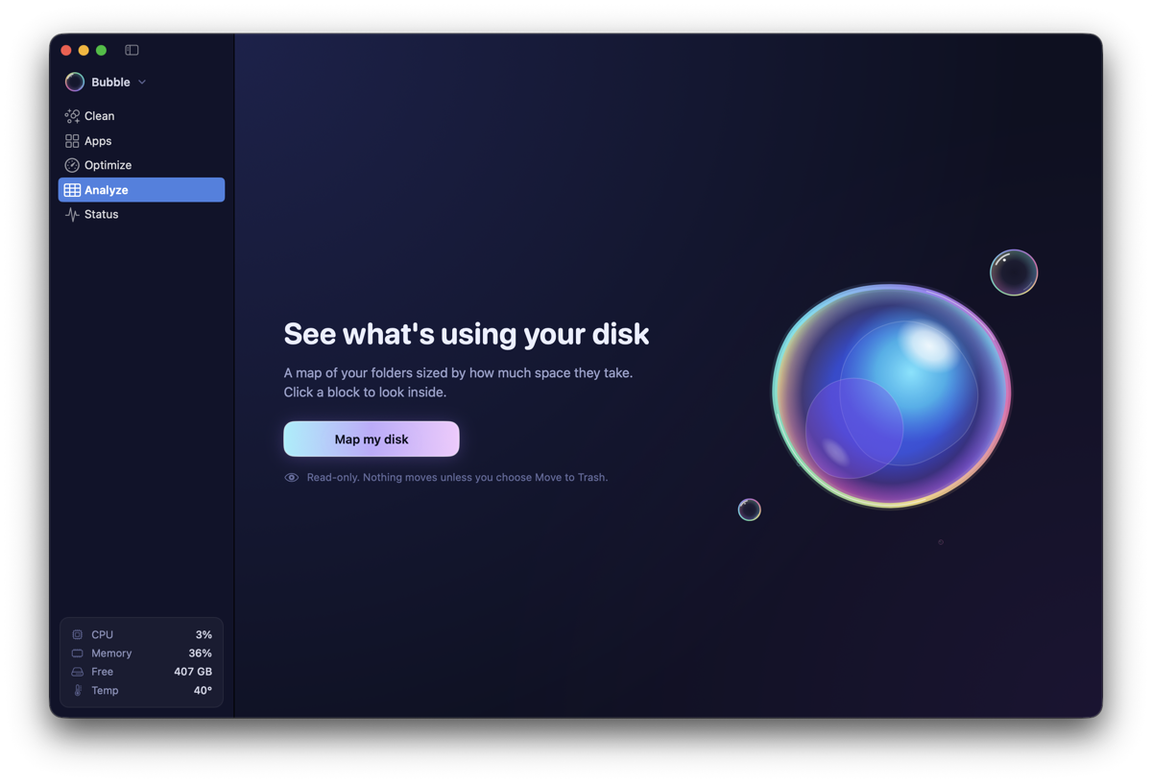
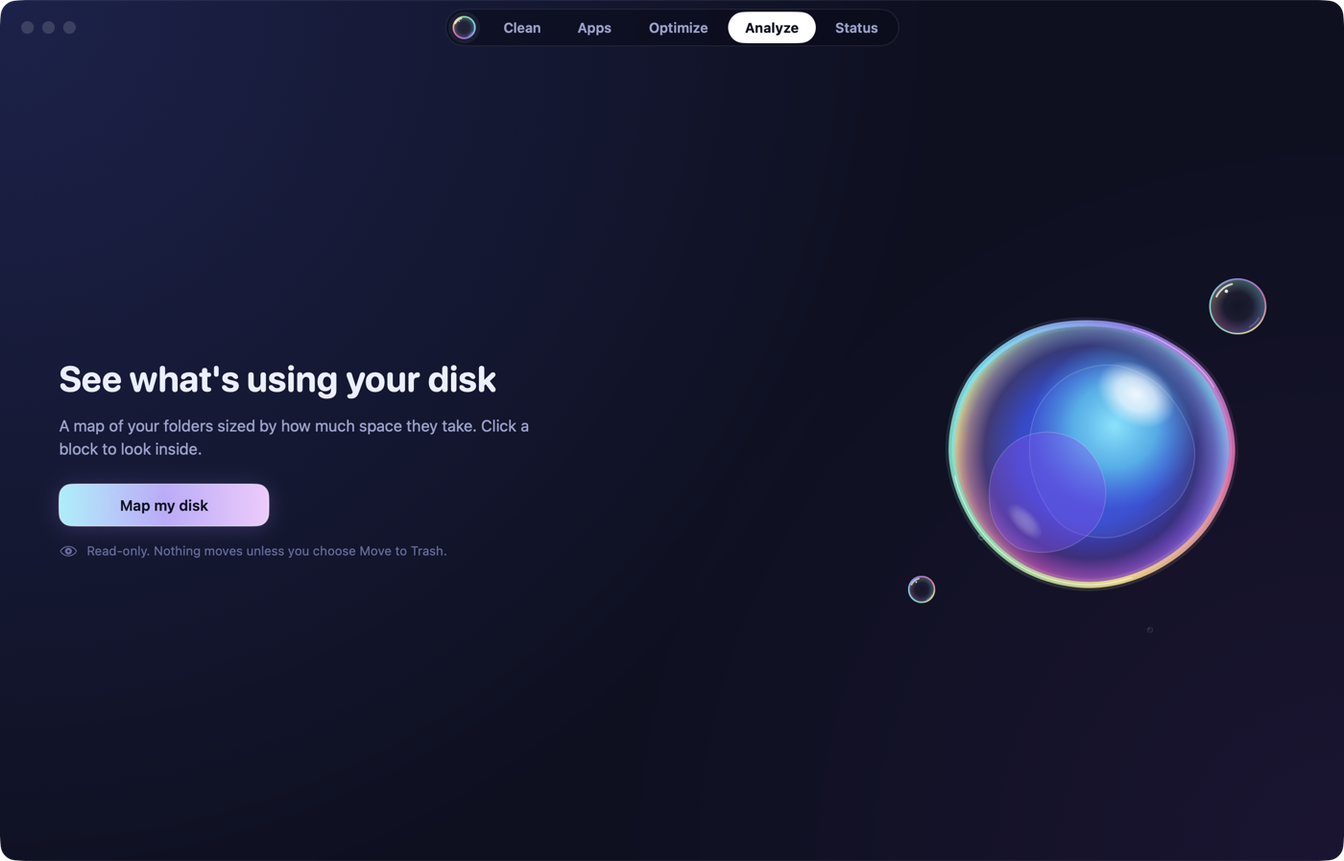
README: new screenshots, trimmed to what users need; dev and release notes move to docs/DEVELOPING.md

diff --git a/README.md b/README.md
@@ -11,260 +11,67 @@
 </p>
 
 <p align="center">
-  <img src="docs/optimize.png" width="49%" alt="Optimize">
+  <img src="docs/apps.png" width="49%" alt="Apps">
   <img src="docs/analyze.png" width="49%" alt="Analyze">
 </p>
 
 Bubble puts a friendly window on top of Mole's `mo` command-line tool: clean caches, uninstall apps
-with their leftovers, run maintenance, map your disk and watch your Mac's vitals. Every cleanup
-runs `mo`, so Mole's safety rules, protected items and history apply exactly as they do in
-Terminal. The one exception is uninstalling apps, which Bubble does natively (see below).
+with their leftovers, run maintenance, map your disk and watch your Mac's vitals. Cleanups run
+`mo`, so Mole's safety rules, protected items and history apply exactly as they do in Terminal.
 
 ## Install
 
 1. Download `Bubble-X.Y.Z.dmg` from the [latest release](https://github.com/jainnitin/bubble/releases/latest),
    open it and drag **Bubble** to Applications.
 2. Open it. If Mole isn't installed yet, Bubble installs it for you.
-3. Optionally give Bubble **Full Disk Access**. Bubble works without it: Clean and Analyze skip
-   the places macOS keeps private (and say so) instead of setting off permission dialogs.
+3. Optionally give Bubble **Full Disk Access**. Bubble works without it: it skips the places macOS
+   keeps private, and says so, instead of setting off permission dialogs.
 
-Bubble is signed and notarized by Apple and updates itself.
+Bubble is signed and notarized by Apple, and updates itself.
 
 ## Features
 
 | Section | What it does |
 |---|---|
-| **Clean** | Runs `mo clean --dry-run`, then reads `~/.config/mole/clean-list.txt` so you can review and untick items before `mo clean`. Unticked items are protected for that one run by temporarily adding them to `~/.config/mole/whitelist` (restored right after, or on the next launch if Bubble quit mid-clean). |
-| **Apps ▸ Uninstall** | Native, no `mo`. Lists apps in `/Applications` and `~/Applications` (Apple and protected apps are hidden). Leftovers in `~/Library` and `/Library` are matched by bundle id (also `<id>.*` for ids with three or more parts, team and group containers, and the app's extensions), plus the exact app name in Application Support, Caches and Logs. They're shown before removal and found again right before it. Open apps, and helpers running from inside them, are asked to quit and force-quit after three seconds if they're still open. Everything goes to the Trash, with Undo; Homebrew apps too, and their Caskroom record follows, so Homebrew stops tracking them. System files (for example in `/Library/LaunchDaemons`) are moved after one admin prompt: Touch ID when Touch ID for sudo is on, otherwise the macOS password dialog. Without Full Disk Access, other apps' containers are only checked by exact path, marked "Protected by macOS" and left alone. |
-| **Apps ▸ Updates** | Homebrew casks (`brew outdated --cask --greedy`), the App Store lookup API and Sparkle appcasts. Homebrew apps update in place; the rest open the App Store or the download page. |
-| **Apps ▸ Startup** | Launch agents and daemons from `~/Library/LaunchAgents`, `/Library/LaunchAgents` and `/Library/LaunchDaemons`. Your agents can be switched on and off with `launchctl`; daemons are view-only. |
-| **Optimize** | `mo optimize`, with live progress per task. Mole runs without admin rights; Bubble then flushes the DNS cache (and rebuilds Spotlight when Mole finds it slow) itself, behind one Touch ID or macOS authorization prompt. Untick "Include admin tasks" to skip that step; then nothing asks for anything. Without Full Disk Access, the tasks that read other apps' data (Mail, Messages and Safari databases, notifications, usage data, shared file lists) are skipped for the run, so macOS doesn't pop up privacy prompts. |
-| **Analyze** | `mo analyze --json PATH`, drawn as a treemap you can drill into. Right-click to reveal, copy the path or move to the Trash. |
-| **Status** | `mo status --watch` (one JSON line per second) plus native readings: CPU and GPU temperatures and fan speed from the SMC, GPU use from IOKit, and the full process list with Quit and Force Quit. A compact version lives in the menu bar. |
+| **Clean** | Scans with `mo clean --dry-run`, lets you review and untick items, then cleans. |
+| **Apps** | **Uninstall** apps with their leftovers, natively: everything goes to the Trash, with Undo. **Updates** for Homebrew, App Store and Sparkle apps. **Startup** items you can switch off. |
+| **Optimize** | `mo optimize` with live progress. Admin tasks (DNS flush, Spotlight) take one Touch ID prompt, or can be skipped. |
+| **Analyze** | A treemap of your disk you can drill into, reveal or move to the Trash. |
+| **Status** | Live CPU, memory, disk, network, temperatures and processes, also in the menu bar. |
 
-Also:
-
-- **First-run setup** installs or updates Mole for you (see Requirements) and offers Full Disk Access as an option.
-- **Checkup** (the Bubble logo at the left of the tab bar) checks Mole, permissions, Touch ID for sudo,
-  free disk space and Mole's health score, with a fix for each problem.
-- **Settings**: Full Disk Access status, open at login, menu-bar-only mode, open straight to
-  results, the Protected Items editor for Mole's whitelist, the menu bar display, and Mole's
-  version and updates.
-- **Keep Screen On** and **Clean Screen** (a black screen to wipe it), from the Bubble menu.
-
-Optimize runs `mo optimize` inside a pseudo-terminal so Mole's prompts can be answered. It never
-asks for a password: Mole gets no `sudo`, and Bubble runs the admin tasks itself afterwards,
-through `sudo` with Touch ID when you're an administrator and Touch ID for sudo is on (Checkup can
-turn it on), otherwise through the macOS authorization dialog, which asks for an administrator's
-name and password. Every other prompt Mole shows is declined with a safe answer and listed as
-"Skipped".
+Also: **Checkup** (click the Bubble logo) checks Mole, permissions and Touch ID for sudo, with a fix
+for each problem; **Settings** edits Mole's protected items; **Keep Screen On** and **Clean Screen**
+are in the Bubble menu.
 
 ## Requirements
 
 - macOS 14 or later.
-- Mole 1.59.0 or later. You don't need to install it first: on first launch Bubble installs it with
-  Homebrew (`brew install mole`) when Homebrew is there, otherwise with Mole's official install
-  script, pinned to a release and checked against a SHA-256 built into Bubble. It installs into
-  `~/.local/bin` and never asks for an administrator password. An older Mole is offered an update.
-- To build: Xcode. The Command Line Tools alone can't expand SwiftUI's `@State` and `@Observable`
-  macros.
-
-## Building and developing
-
-```sh
-scripts/bundle.sh            # release build: build/Bubble.app, Developer ID (else ad-hoc), hardened runtime
-scripts/bundle.sh --install  # also copies it to /Applications
-DEVELOPER_DIR=/Applications/Xcode.app/Contents/Developer swift build   # debug build
-DEVELOPER_DIR=/Applications/Xcode.app/Contents/Developer swift test    # unit tests
-```
-
-Without **Full Disk Access** (System Settings ▸ Privacy & Security), Clean and Analyze run Mole
-under a sandbox profile that skips macOS-protected folders; see Privacy below. Launch a dev build
-with `-simulateNoFullDiskAccess YES` to see that mode on a Mac that has access.
-
-Some tests run real processes in a pseudo-terminal (bash scripts standing in for Mole and sudo).
-The test that needs an installed Mole skips itself without one; `BUBBLE_LIVE_MOLE=1 swift test
---filter LiveOptimizeWhitelistTests` runs a real `mo optimize --dry-run` with the temporary whitelist.
-
-**Dev builds.** `BUBBLE_DEV=1 scripts/bundle.sh` compiles in debug hooks that release builds don't
-contain (`release.sh` refuses to ship them). Pass them as launch arguments, for example
-`open build/Bubble.app --args -simulateNoMole YES`:
-
-| Argument | Effect |
-|---|---|
-| `-simulateNoMole YES` | Mole reported missing (welcome screen) |
-| `-simulateNoBrew YES` | Homebrew reported missing (install-script route) |
-| `-simulateMoleVersion 1.40.0` | Report this Mole version (update screen) |
-| `-simulateInstallFailure YES` | The simulated install fails (error screen) |
-| `-simulateNoFullDiskAccess YES` | Full Disk Access reported off everywhere (setup step, Settings, Checkup, and Clean/Analyze run guarded) |
-| `-lastTab Status`, `-appsSub Updates` | Open on a section |
-| `-autoStart YES` | Clean and Analyze start their read-only scan on launch |
-
-While any `-simulate…` argument is set, installing or updating Mole is a dry run with canned
-output. `scripts/shot.sh <Tab> out.png` relaunches a dev build on a section and screenshots its
-window (check the image before sharing it: Status shows your IP address, processes and devices).
-
-The app icon is drawn in code; see [scripts/icon/README.md](scripts/icon/README.md).
+- Mole 1.59.0 or later. Bubble installs or updates it for you, with Homebrew when it's there,
+  otherwise with Mole's official install script (pinned and checksum-verified). No admin password
+  needed.
 
 ## Privacy
 
-Bubble has no analytics, telemetry or crash reporting, and no account.
-
-**Network.** Bubble itself only goes online for these:
-- **Its own updates.** Sparkle fetches `appcast.xml` from GitHub Releases once a day (turn
-  this off under **Settings ▸ Mole ▸ Automatically check for updates**), or when you choose
-  **Check for Updates…**. It sends no information about your Mac.
-- **Apps ▸ Updates**, only when you open it: the App Store lookup API (`itunes.apple.com`, with
-  your App Store apps' bundle IDs), each Sparkle-based app's own update feed, and
-  `brew outdated` for Homebrew casks. These requests send no cookies and a generic User-Agent.
-- **Explicit actions**: installing or updating Mole (Homebrew, or Mole's install script from
-  GitHub), updating a Homebrew app, and the "is Mole up to date" check in Checkup and Settings,
-  which asks Homebrew.
-
-**Your admin password** never passes through Bubble. Admin tasks (Optimize's DNS flush, removing
-system files during Uninstall) are approved with Touch ID through `sudo` when Touch ID for sudo is
-on and you're an administrator. Otherwise, or if Touch ID is cancelled, macOS's own authorization
-dialog asks for an administrator's name and password; Bubble never sees what's typed there.
-
-**Permissions**
-- *Full Disk Access* (optional) lets Mole see the Trash, Mail, Desktop, Documents, Downloads and
-  other apps' caches. macOS extends it to the tools Bubble runs: `mo`, `brew`, and developer tools
-  such as `npm`, `pip` and `go` that Clean asks to clear their caches.
-
-  **Without it**, every `mo` that Clean and Analyze start runs under `sandbox-exec` with a profile
-  that refuses the places macOS would otherwise ask about, one dialog each, on Bubble's behalf:
-  Desktop, Documents, Downloads, the Trash, Mail, Messages, Safari, iCloud Drive and
-  `~/Library/CloudStorage`, the Music folder, Photos libraries, removable volumes (`/Volumes`), and
-  the contents of other apps' `Containers`, `Group Containers`, `Application Scripts` and
-  `Daemon Containers`. A refusal from the profile comes before macOS's privacy check, so no
-  dialog appears; Mole sees "Operation not permitted" and moves on. Clean's review and Analyze's
-  sidebar list what was skipped. Desktop, Documents and Downloads can each be turned on in
-  **Settings ▸ General** (or with "Scan…" in Analyze): macOS then asks once and remembers the
-  answer. Granting Full Disk Access later takes effect when you switch back to Bubble.
-- *Administrator approval* (Touch ID through `sudo`, or an administrator's password in the macOS
-  dialog) for the tasks above.
-- *Automation*: some of Mole's steps use `osascript` (moving files to the Trash through Finder), so macOS may ask whether Bubble can control Finder or
-  System Events. Clean refuses Mole's System Events "which apps are running" query (Mole falls
-  back to `lsappinfo`), so cleaning never asks.
-- *Open at login*, only if you turn it on in Settings.
-
-**On disk**, Bubble writes only:
-- its preferences (the `~/Library/Preferences/` plist for Bubble's bundle ID);
-- `~/.config/mole/whitelist`, when you edit Protected Items, and temporarily during a selective
-  clean (with a backup beside it, restored right after, or on the next launch if Bubble quit
-  mid-clean);
-- Mole's own files, as `mo` writes them: `~/.config/mole/clean-list.txt` from each scan, and
-  Mole's history and logs.
-
-## Updates
-
-Bubble updates itself with [Sparkle 2](https://sparkle-project.org). It checks once a day (or
-**Bubble ▸ Check for Updates…**), reads `appcast.xml` from the newest GitHub Release, and installs
-an update only if the zip's EdDSA signature matches the public key built into the app. The appcast
-is signed too (`SURequireSignedFeed`). Releases are signed with Developer ID and notarized by
-Apple, so they open without a Gatekeeper warning and keep their Full Disk Access grant across
-updates.
-
-## Releasing
-
-Settings live in `updates.conf` (repo, feed URL, public key, Keychain account) and `VERSION`.
-`CFBundleVersion` is derived from the version (`1.2.3` → `1002003`), so every new version is newer
-to Sparkle.
-
-One-time setup:
-
-1. Set `GITHUB_REPO` in `updates.conf` to the real `owner/repo`. The feed URL is derived from it:
-   `https://github.com/<owner>/<repo>/releases/latest/download/appcast.xml`.
-2. The EdDSA private key is in the login Keychain as "Private key for signing Sparkle updates",
-   account `bubble`. Its public half is `SU_PUBLIC_ED_KEY` in `updates.conf`. Export the private key
-   into the release secret, then delete the exported file:
-   ```sh
-   swift package resolve   # fetches Sparkle's tools into .build/artifacts
-   .build/artifacts/sparkle/Sparkle/bin/generate_keys --account bubble -x ~/bubble_ed25519
-   gh secret set SPARKLE_ED_PRIVATE_KEY --env release < ~/bubble_ed25519 && rm -P ~/bubble_ed25519
-   ```
-3. The secret lives in a GitHub environment named `release` (Settings ▸ Environments), not in the
-   repo-wide secrets. Give that environment a deployment rule limited to tags matching `v*.*.*`
-   (and ideally a required reviewer), so no other branch or workflow can read the key.
-4. Keep a backup of the private key (for example in a password manager). Without it, existing
-   installs can't be updated.
-5. Add the Apple secrets to the same `release` environment (the same values as `~/code/keel`):
-   `MACOS_CERT_P12_BASE64` and `MACOS_CERT_PASSWORD` (the Developer ID Application certificate),
-   and `APPLE_API_KEY_P8_BASE64`, `APPLE_API_KEY_ID`, `APPLE_API_ISSUER_ID` (an App Store Connect
-   API key, used to notarize).
-6. For local releases, save the notary credentials once:
-   `xcrun notarytool store-credentials bubble --key <AuthKey.p8> --key-id <ID> --issuer <issuer>`.
-
-To cut a release, bump `VERSION`, commit, then `git tag v$(cat VERSION) && git push --tags`.
-`.github/workflows/release.yml` runs `scripts/release.sh` in the `release` environment: it builds
-the app, signs it with Developer ID, notarizes and staples it, zips it with `ditto`, signs the zip, writes a signed `appcast.xml` with Sparkle's
-`generate_appcast`, and checks the signature against `SU_PUBLIC_ED_KEY`. It then packs the same app
-into `Bubble-X.Y.Z.dmg` for downloads (`scripts/dmg.sh`), and signs, notarizes and staples the DMG
-too. A separate job without the key then attaches the DMG, the zip and `appcast.xml` to the GitHub
-Release. Sparkle only uses the zip and the appcast; the DMG is what people download to install. If `release-notes/X.Y.Z.md` exists, it
-appears in the update dialog. To build a release locally with the Keychain key, run
-`scripts/release.sh` (the output goes to `dist/`); `SKIP_NOTARIZE=1` skips notarization for a
-test build.
-
-The DMG window (Bubble.app, an Applications shortcut and an arrow between them) is laid out by
-[dmgbuild](https://github.com/dmgbuild/dmgbuild), which writes Finder's `.DS_Store` directly, so it
-works on a headless CI runner without scripting Finder. `scripts/dmg.sh` installs it into
-`build/dmgbuild-venv` from `scripts/dmg/requirements.txt` (pinned by hash); its settings are in
-`scripts/dmg/settings.py`. To try the DMG without releasing:
-`scripts/bundle.sh && scripts/dmg.sh build/Bubble.app build/Bubble.dmg`. The background
-(`assets/dmg-background.png` and `@2x`) is drawn by `swift scripts/dmg/render-background.swift`.
-
-Builds use the hardened runtime with the `com.apple.security.automation.apple-events` entitlement
-(Mole runs `osascript`, and macOS checks Bubble for it). `scripts/bundle.sh` signs with the first
-Developer ID Application identity in your keychains (override with `SIGN_IDENTITY`, or `-` for
-ad-hoc). Ad-hoc builds also set `cs.disable-library-validation`, because without a Team ID the
-hardened runtime won't load Sparkle.framework; Developer ID builds keep library validation on.
-
-CI (`.github/workflows/ci.yml`) builds with and without the debug hooks and runs the tests on
-every push and pull request.
-
-## Architecture
-
-A Swift package with one executable target; `scripts/bundle.sh` wraps it into an app bundle with
-Sparkle.framework. Each section is a SwiftUI view over an `@Observable` model, and every screen
-stays alive while hidden so scans and running jobs survive switching sections.
-
-```
-Sources/Bubble/
-  App.swift              app, window, tab bar, menu bar item, commands
-  Core/
-    Shell.swift          runs child processes: fixed mo/brew paths, scrubbed environment,
-                         system-first PATH, executable trust check, line streaming
-    PTY.swift            pseudo-terminal sessions and the prompt responder (declines prompts,
-                         ends sudo's without typing a password)
-    Admin.swift          root scripts behind Touch ID (sudo) or the macOS authorization dialog
-    Safety.swift         pure guards: Move to Trash, app names, command arguments, links
-    Theme.swift          palette, type scale, spacing, motion and shared modifiers
-    Components.swift     shared views: cards, buttons, hero layout, log box, section header
-    Bubble.swift         the bubble artwork (SwiftUI, and Core Animation for the hero)
-    Doctor.swift         Checkup
-    Updater.swift        Sparkle
-    Utilities.swift      Keep Screen On, Clean Screen, System Settings, Finder, clipboard
-    Format.swift         sizes, rates, dates and paths
-  Onboarding/            Mole detection, install and update, and the setup screens
-  Clean/                 scan parsing, selection rules, the temporary whitelist
-  Apps/                  Uninstall (native: AppLeftovers finds leftovers, AppRemover removes),
-                         Updates (appcasts, version comparison), Startup
-  Optimize/              mo optimize, and the admin tasks Bubble runs itself
-  Analyze/               navigation model, view and squarified treemap
-  Status/                mo status model, native sensors (SMC, GPU, processes), cards, menu bar panel
-  Settings/              the window and its panes, including the Protected Items editor
-Tests/BubbleTests/       unit tests, plus pseudo-terminal tests with scripted prompts
-scripts/                 bundle.sh, release.sh, dmg.sh, verify-update.swift, shot.sh, icon/, dmg/
-```
+- No analytics, telemetry, crash reporting or account.
+- Bubble goes online only to check for its own updates (once a day, can be turned off), when you
+  open **Apps ▸ Updates**, and when you install or update Mole or an app.
+- Your admin password never passes through Bubble: admin tasks use Touch ID through `sudo`, or
+  macOS's own authorization dialog.
+- Without Full Disk Access, Clean and Analyze run Mole in a sandbox that skips Desktop, Documents,
+  Downloads, Mail, Messages, Photos, iCloud and other apps' containers, so no privacy prompts
+  appear. Each screen lists what it skipped.
+- On disk, Bubble writes only its preferences and, when you protect items, Mole's
+  `~/.config/mole/whitelist` (unticked items are protected there for one run, then restored).
 
 ## Known limits
 
 - System-level caches in **Clean** need admin rights, and Mole only uses an already-open sudo
   session for those. Run `sudo -v && mo clean` in Terminal for them.
-- Mole's clean rescans when it runs, so anything new since your preview is cleaned too, the same
-  as `mo clean`.
-- No AI-tool cleanup, fan control or privacy indicators; the CLI doesn't expose them.
+- Mole rescans when it cleans, so anything new since your preview is cleaned too, as with `mo clean`.
+
+## Developing
+
+See [docs/DEVELOPING.md](docs/DEVELOPING.md) for building, dev builds and releasing.
 
 ## Credits and license
 
@@ -273,7 +80,5 @@ Bubble is released under the [MIT License](LICENSE).
 - [Mole](https://github.com/tw93/Mole) by tw93 is licensed under GPL-3.0. Bubble runs the `mo`
   you have installed as a separate program and doesn't bundle or link any of its code.
 - [Sparkle](https://sparkle-project.org) (MIT) is embedded for self-updates.
-- The app icon and bubble artwork are drawn in code (`scripts/icon/`, `Sources/Bubble/Core/Bubble.swift`);
-  there is no third-party art.
 
 Bubble is a separate project from Mole for Mac, the native app by Mole's author.

diff --git a/docs/DEVELOPING.md b/docs/DEVELOPING.md
@@ -1,0 +1,97 @@
+# Developing Bubble
+
+Needs Xcode: the Command Line Tools alone can't expand SwiftUI's macros.
+
+```sh
+scripts/bundle.sh            # release build: build/Bubble.app, Developer ID (else ad-hoc), hardened runtime
+scripts/bundle.sh --install  # also copies it to /Applications
+DEVELOPER_DIR=/Applications/Xcode.app/Contents/Developer swift build   # debug build
+DEVELOPER_DIR=/Applications/Xcode.app/Contents/Developer swift test    # unit tests
+```
+
+
+under a sandbox profile that skips macOS-protected folders; see Privacy below. Launch a dev build
+with `-simulateNoFullDiskAccess YES` to see that mode on a Mac that has access.
+
+Some tests run real processes in a pseudo-terminal (bash scripts standing in for Mole and sudo).
+The test that needs an installed Mole skips itself without one; `BUBBLE_LIVE_MOLE=1 swift test
+--filter LiveOptimizeWhitelistTests` runs a real `mo optimize --dry-run` with the temporary whitelist.
+
+**Dev builds.** `BUBBLE_DEV=1 scripts/bundle.sh` compiles in debug hooks that release builds don't
+contain (`release.sh` refuses to ship them). Pass them as launch arguments, for example
+`open build/Bubble.app --args -simulateNoMole YES`:
+
+| Argument | Effect |
+|---|---|
+| `-simulateNoMole YES` | Mole reported missing (welcome screen) |
+| `-simulateNoBrew YES` | Homebrew reported missing (install-script route) |
+| `-simulateMoleVersion 1.40.0` | Report this Mole version (update screen) |
+| `-simulateInstallFailure YES` | The simulated install fails (error screen) |
+| `-simulateNoFullDiskAccess YES` | Full Disk Access reported off everywhere (setup step, Settings, Checkup, and Clean/Analyze run guarded) |
+| `-lastTab Status`, `-appsSub Updates` | Open on a section |
+| `-autoStart YES` | Clean and Analyze start their read-only scan on launch |
+
+While any `-simulate…` argument is set, installing or updating Mole is a dry run with canned
+output. `scripts/shot.sh <Tab> out.png` relaunches a dev build on a section and screenshots its
+window (check the image before sharing it: Status shows your IP address, processes and devices).
+
+The app icon is drawn in code; see [scripts/icon/README.md](../scripts/icon/README.md).
+
+## Releasing
+
+Settings live in `updates.conf` (repo, feed URL, public key, Keychain account) and `VERSION`.
+`CFBundleVersion` is derived from the version (`1.2.3` → `1002003`), so every new version is newer
+to Sparkle.
+
+One-time setup:
+
+1. Set `GITHUB_REPO` in `updates.conf` to the real `owner/repo`. The feed URL is derived from it:
+   `https://github.com/<owner>/<repo>/releases/latest/download/appcast.xml`.
+2. The EdDSA private key is in the login Keychain as "Private key for signing Sparkle updates",
+   account `bubble`. Its public half is `SU_PUBLIC_ED_KEY` in `updates.conf`. Export the private key
+   into the release secret, then delete the exported file:
+   ```sh
+   swift package resolve   # fetches Sparkle's tools into .build/artifacts
+   .build/artifacts/sparkle/Sparkle/bin/generate_keys --account bubble -x ~/bubble_ed25519
+   gh secret set SPARKLE_ED_PRIVATE_KEY --env release < ~/bubble_ed25519 && rm -P ~/bubble_ed25519
+   ```
+3. The secret lives in a GitHub environment named `release` (Settings ▸ Environments), not in the
+   repo-wide secrets. Give that environment a deployment rule limited to tags matching `v*.*.*`
+   (and ideally a required reviewer), so no other branch or workflow can read the key.
+4. Keep a backup of the private key (for example in a password manager). Without it, existing
+   installs can't be updated.
+5. Add the Apple secrets to the same `release` environment (the same values as `~/code/keel`):
+   `MACOS_CERT_P12_BASE64` and `MACOS_CERT_PASSWORD` (the Developer ID Application certificate),
+   and `APPLE_API_KEY_P8_BASE64`, `APPLE_API_KEY_ID`, `APPLE_API_ISSUER_ID` (an App Store Connect
+   API key, used to notarize).
+6. For local releases, save the notary credentials once:
+   `xcrun notarytool store-credentials bubble --key <AuthKey.p8> --key-id <ID> --issuer <issuer>`.
+
+To cut a release, bump `VERSION`, commit, then `git tag v$(cat VERSION) && git push --tags`.
+`.github/workflows/release.yml` runs `scripts/release.sh` in the `release` environment: it builds
+the app, signs it with Developer ID, notarizes and staples it, zips it with `ditto`, signs the zip, writes a signed `appcast.xml` with Sparkle's
+`generate_appcast`, and checks the signature against `SU_PUBLIC_ED_KEY`. It then packs the same app
+into `Bubble-X.Y.Z.dmg` for downloads (`scripts/dmg.sh`), and signs, notarizes and staples the DMG
+too. A separate job without the key then attaches the DMG, the zip and `appcast.xml` to the GitHub
+Release. Sparkle only uses the zip and the appcast; the DMG is what people download to install. If `release-notes/X.Y.Z.md` exists, it
+appears in the update dialog. To build a release locally with the Keychain key, run
+`scripts/release.sh` (the output goes to `dist/`); `SKIP_NOTARIZE=1` skips notarization for a
+test build.
+
+The DMG window (Bubble.app, an Applications shortcut and an arrow between them) is laid out by
+[dmgbuild](https://github.com/dmgbuild/dmgbuild), which writes Finder's `.DS_Store` directly, so it
+works on a headless CI runner without scripting Finder. `scripts/dmg.sh` installs it into
+`build/dmgbuild-venv` from `scripts/dmg/requirements.txt` (pinned by hash); its settings are in
+`scripts/dmg/settings.py`. To try the DMG without releasing:
+`scripts/bundle.sh && scripts/dmg.sh build/Bubble.app build/Bubble.dmg`. The background
+(`assets/dmg-background.png` and `@2x`) is drawn by `swift scripts/dmg/render-background.swift`.
+
+Builds use the hardened runtime with the `com.apple.security.automation.apple-events` entitlement
+(Mole runs `osascript`, and macOS checks Bubble for it). `scripts/bundle.sh` signs with the first
+Developer ID Application identity in your keychains (override with `SIGN_IDENTITY`, or `-` for
+ad-hoc). Ad-hoc builds also set `cs.disable-library-validation`, because without a Team ID the
+hardened runtime won't load Sparkle.framework; Developer ID builds keep library validation on.
+
+CI (`.github/workflows/ci.yml`) builds with and without the debug hooks and runs the tests on
+every push and pull request.
+
